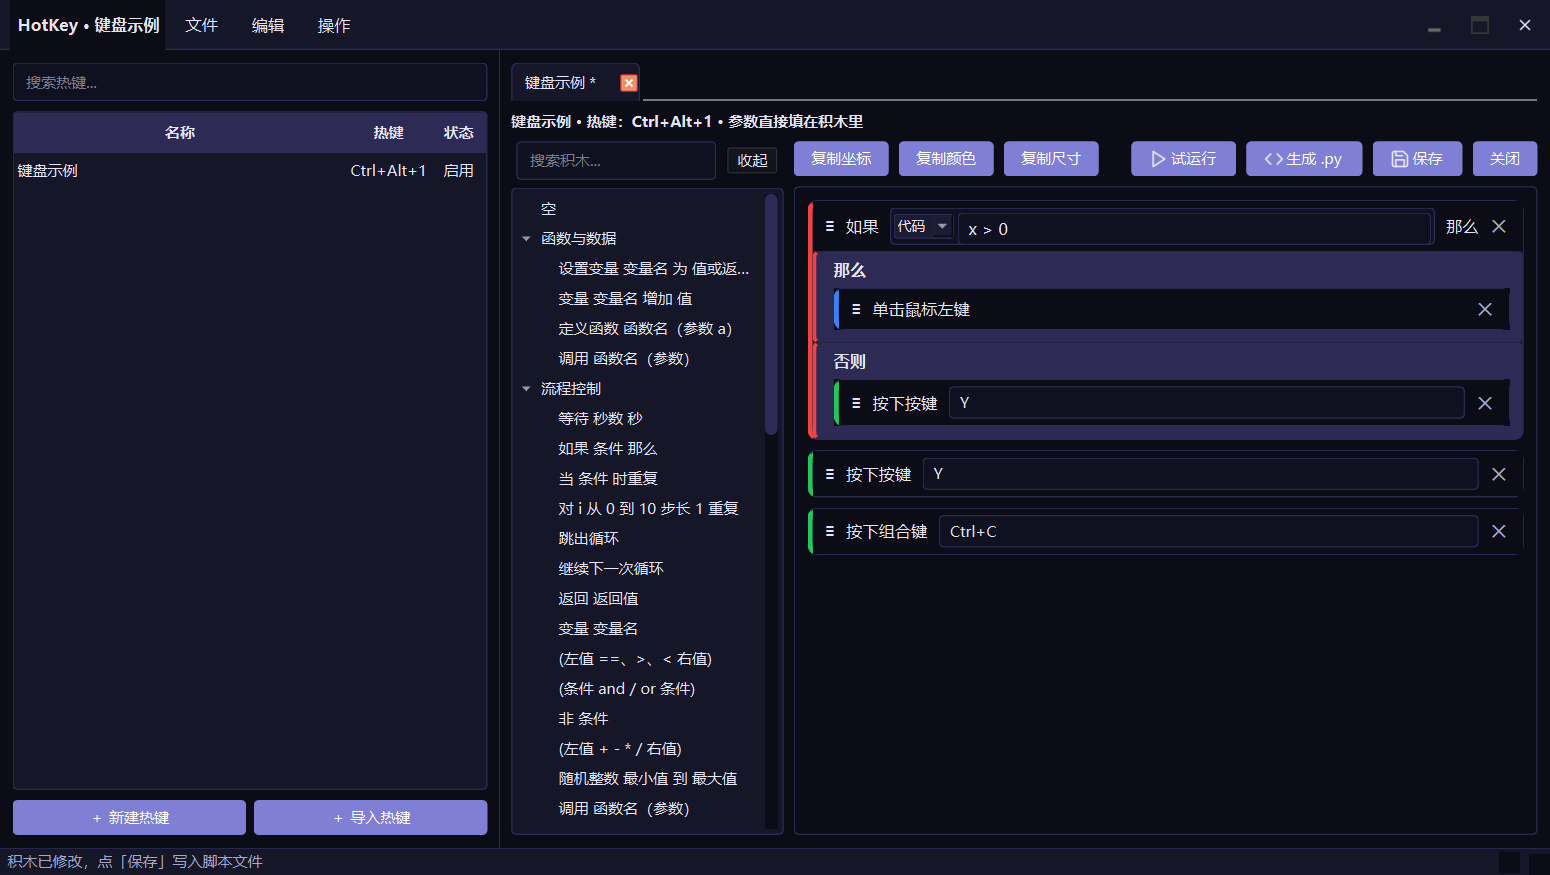
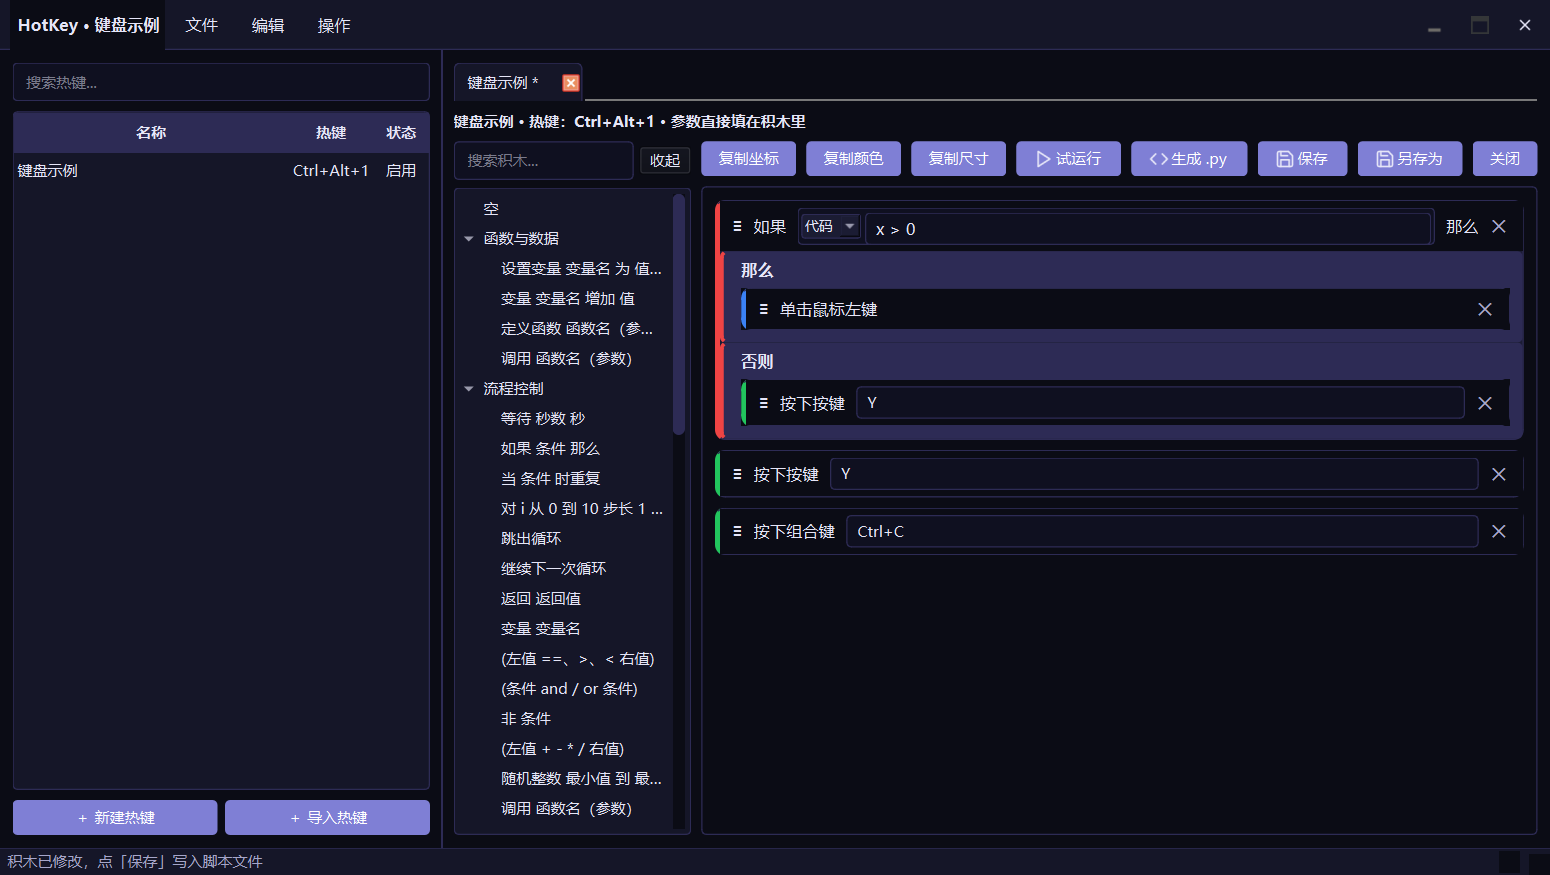
feat: add save-as toolbar button

Changed region(s): [[0.0619, 0.0617, 0.929, 0.9566], [0.0929, 0.1234, 0.1239, 0.1851]]

diff --git a/hotkey/ui/main_window.py b/hotkey/ui/main_window.py
@@ -152,6 +152,7 @@ class MainWindow(QMainWindow):
         for button, name in (
             (self.ui.btnRunOnce, "run.svg"),
             (self.ui.btnSaveScript, "save.svg"),
+            (self.ui.btnSaveAs, "save.svg"),
             (self.ui.btnExportPython, "code.svg"),
         ):
             button.setIcon(themed_icon(name))
@@ -212,6 +213,7 @@ class MainWindow(QMainWindow):
         self.ui.btnNewScript.clicked.connect(self._new_script)
         self.ui.btnImportHotkey.clicked.connect(self._import_script)
         self.ui.btnSaveScript.clicked.connect(self._save_current_tab)
+        self.ui.btnSaveAs.clicked.connect(self._save_as)
         self.ui.btnRunOnce.clicked.connect(self._run_script)
         self.ui.btnExportPython.clicked.connect(self._export_python)
         self.ui.btnCloseEditor.clicked.connect(lambda: self._set_editor_visible(False))

diff --git a/README.md b/README.md
@@ -385,7 +385,7 @@ pytest
 
 - `keyboard` 库在部分 Windows 环境下需要以管理员身份运行才能收到全局按键
 - 录制 `Win+X` 组合键时，系统可能同时响应（例如 `Win+R` 会打开「运行」）
-- 数字参数只接受数字和负号；参数没填完整时保存会提示语法错误
+- 数值/文本参数可切换类型或拖入值积木；参数没填完整时保存会提示语法错误
 - 单栏按列表顺序执行；容器内按放入顺序执行，嵌套积木不能直接拖出容器（删除后重新拖入）
 - 热键运行时函数按列表顺序执行，**调用前必须先定义**；导出的 `.py` 会自动把函数定义提前
 - `返回` 积木只能放在函数体里，放在主流程会导致语法错误

diff --git a/docs/PLAN-qt-migration.md b/docs/PLAN-qt-migration.md
@@ -670,7 +670,7 @@ v1/v2 的纯脚本会迁移成一个「空」积木。
   - `value_pixel_matches`：坐标颜色判断返回布尔值
 - 这些值积木可以拖进「设置变量」或条件槽，不再出现“弹窗输入完内容丢了”的情况
 - 旧块保留 hidden 兼容旧脚本，但不再出现在积木柜
-- 测试：隐藏旧块、值积木存在、目录计数；`pytest` 205 项通过
+- 测试：隐藏旧块、值积木存在、目录计数；`pytest` 206 项通过
 
 
 ## 31. 纠正：双用途积木，而不是隐藏（2026-10-23）
